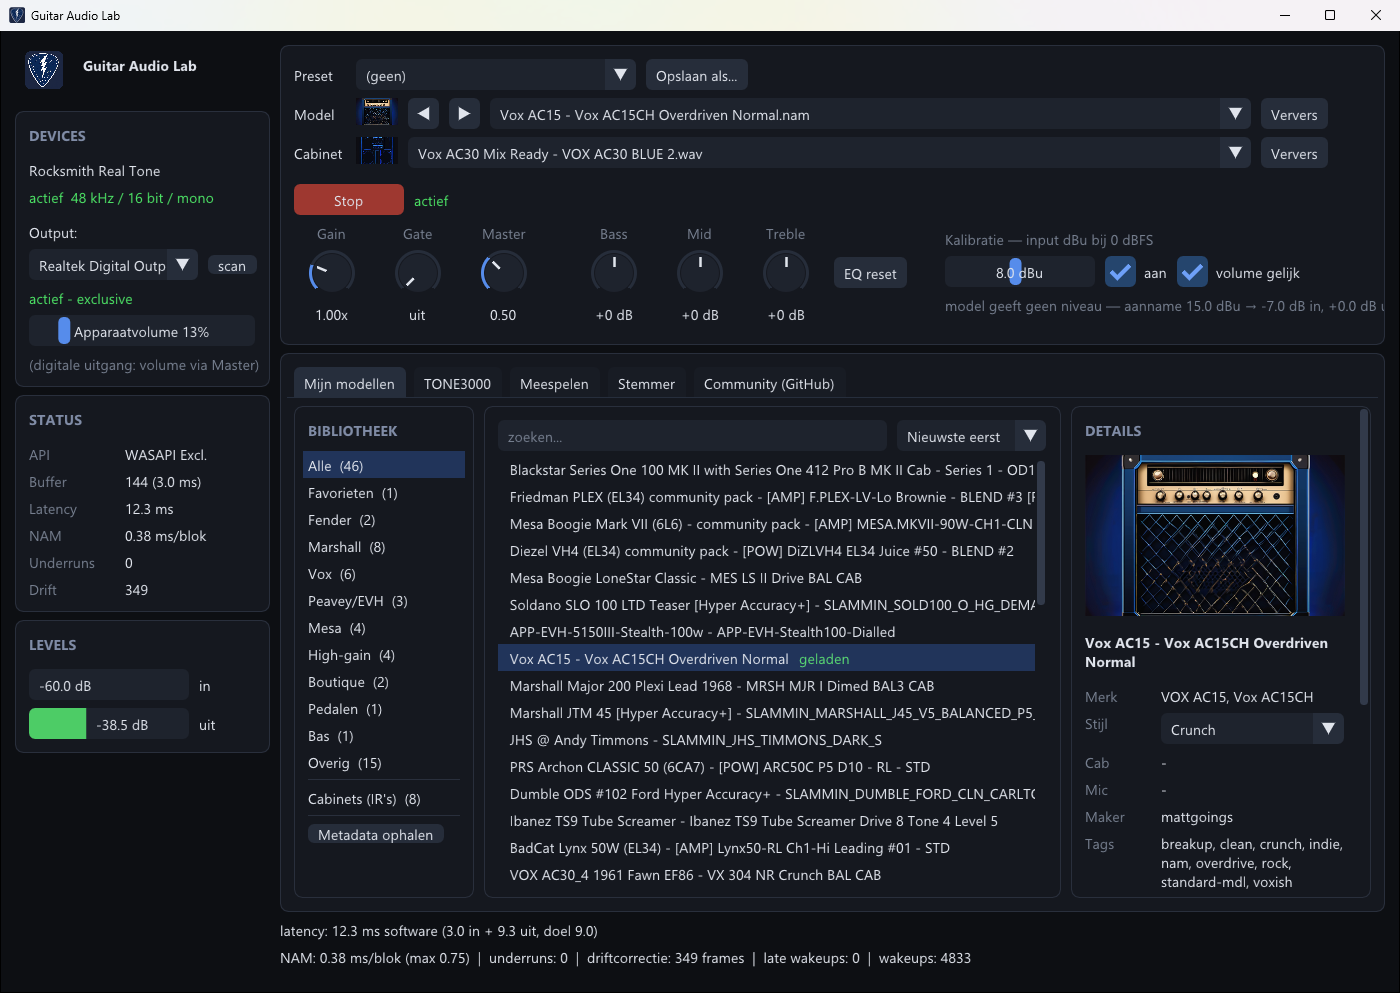
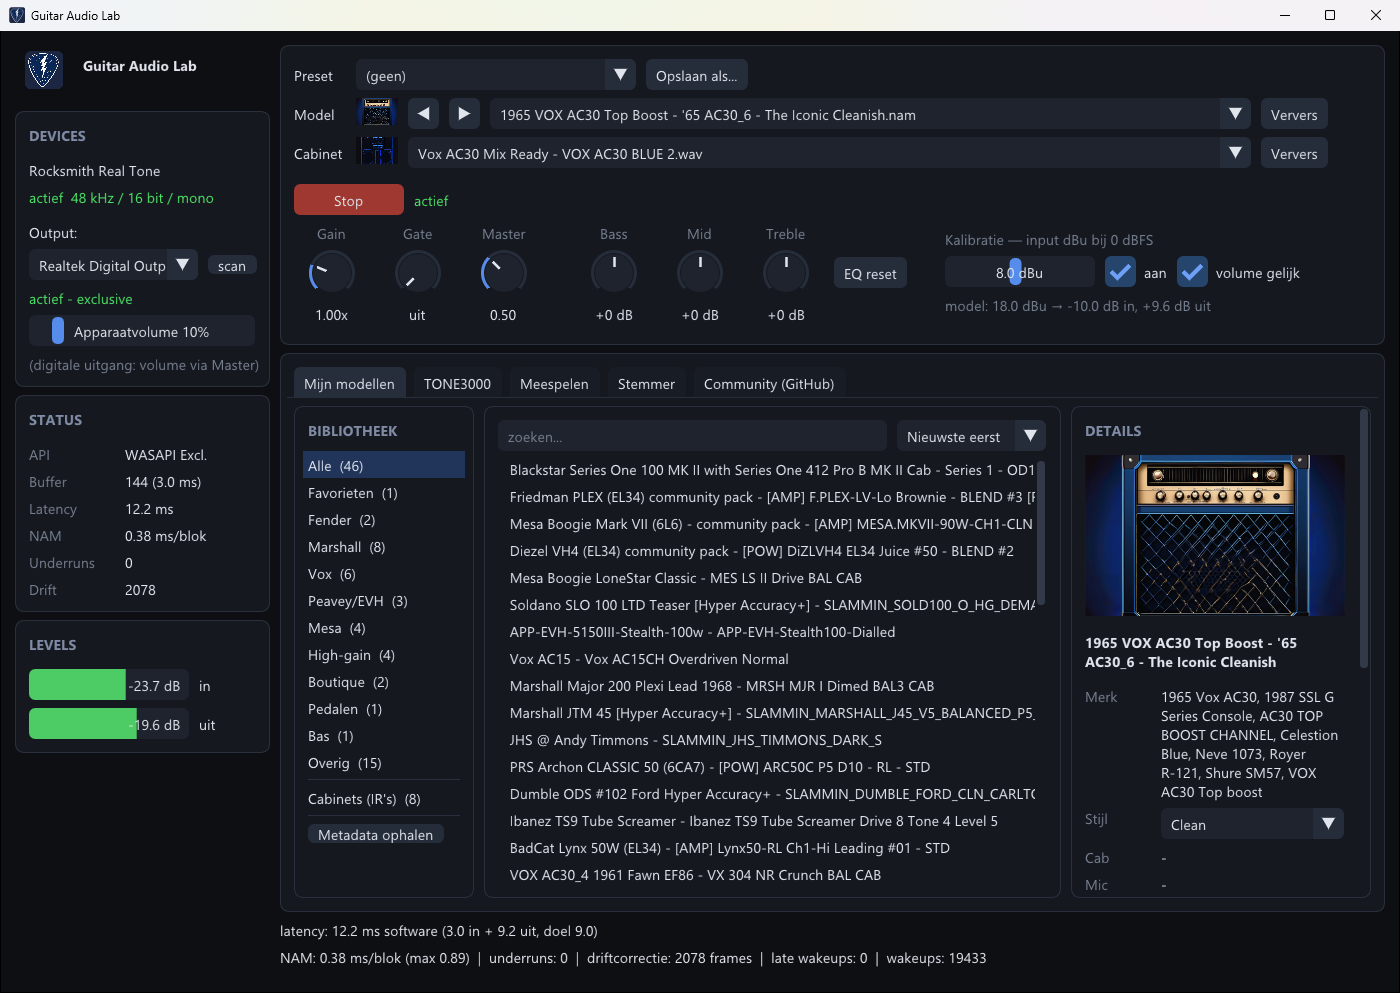
README: hoofdscreenshot tijdens het spelen (AC30 Top Boost, meters uitgeslagen) en de stemmer
Claude-Session: https://claude.ai/code/session_01CQi2qVDfRBGq6qbnzNiYdJ

diff --git a/README.md b/README.md
@@ -5,7 +5,7 @@ versterker uit een bibliotheek van [Neural Amp Modeler](https://github.com/sdatk
 zet er een speakerkast (cabinet-IR) achter en speel met lage latency naar je speakers of de optische S/PDIF-uitgang. Spotify of YouTube spelen mee op de achtergrond.
 
 <p align="center">
-  <img src="docs/images/hoofdscherm.png" width="860" alt="Guitar Audio Lab: een Vox AC15-model met een AC30-cabinet geladen, de engine actief, de bibliotheek met categorieën en het detailpaneel met versterkerplaatje">
+  <img src="docs/images/hoofdscherm.png" width="860" alt="Guitar Audio Lab tijdens het spelen: een Vox AC30 Top Boost-model met een AC30-cabinet, de meters in en uit uitgeslagen, de bibliotheek met categorieën en het detailpaneel met versterkerplaatje">
 </p>
 
 ## Wat kan het
@@ -33,6 +33,12 @@ zet er een speakerkast (cabinet-IR) achter en speel met lage latency naar je spe
   <tr>
     <td><b>TONE3000:</b> zoeken, filteren en met één klik ophalen.</td>
     <td><b>Meespelen:</b> Spotify of YouTube in je gitaargeluid gemixt.</td>
+  </tr>
+  <tr>
+    <td colspan="2"><img src="docs/images/stemmer.png" alt="De stemmer: een lage E (E2, 82,5 Hz) op +1 cent, de naald op de middenlijn"></td>
+  </tr>
+  <tr>
+    <td colspan="2"><b>Stemmer:</b> speel een losse snaar; standaard of een alternatieve stemming.</td>
   </tr>
 </table>
 
